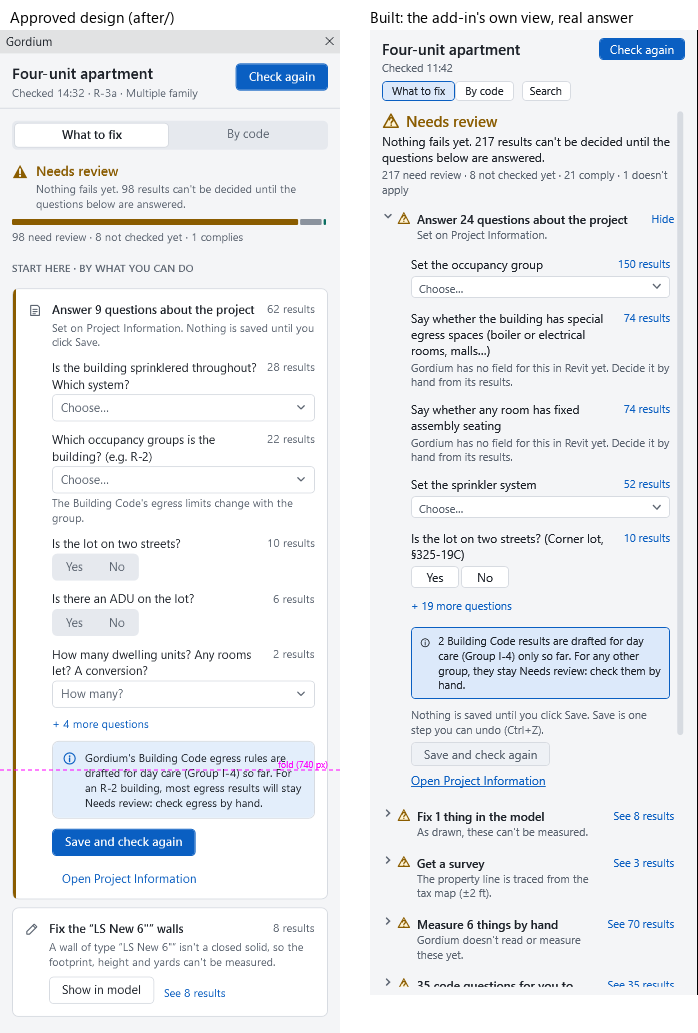
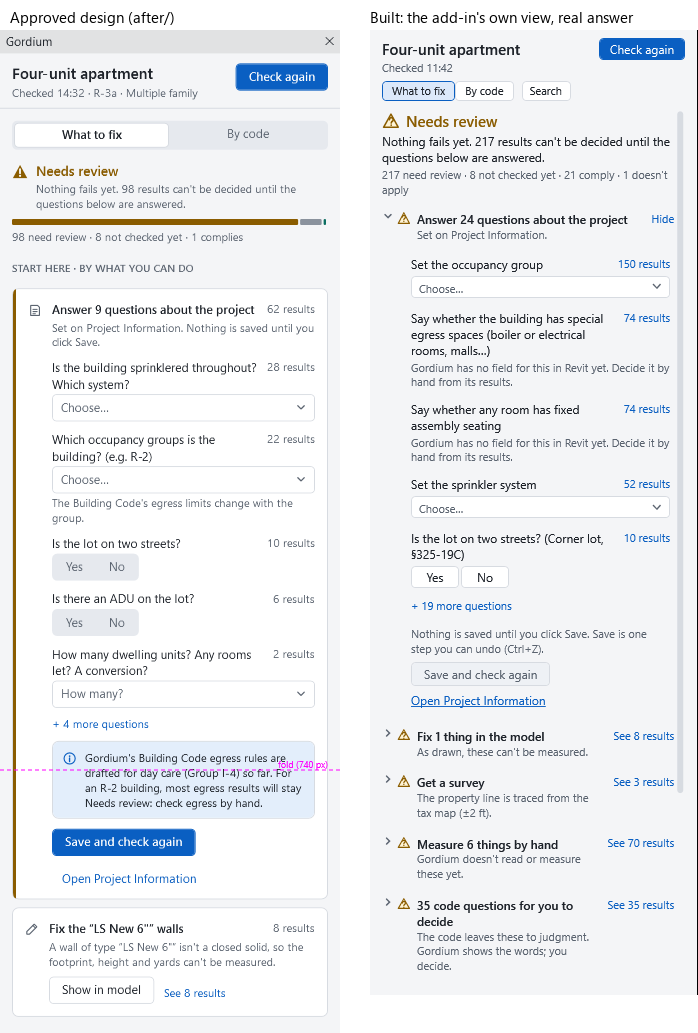
fix: short review after #181: the questions card's scope note counts only the card's own results (the apartment's two I-4-only results ask no question, so the card has none); the book in By code keeps its note

diff --git a/apps/revit_addin/tests/Gordium.Revit.Reading.Tests/DetailPageTests.cs b/apps/revit_addin/tests/Gordium.Revit.Reading.Tests/DetailPageTests.cs
@@ -223,7 +223,9 @@ public sealed class DetailPageTests
         Assert.Equal(answers.Cards.Count - ProjectQuestions.ShownAtFirst, more.Hidden);
         var foot = Assert.Single(first.OfType<AnswerFootEntry>());
         Assert.Equal(answers.Cards.Count, foot.Questions.Count);                // Save covers every question, shown or not
-        Assert.Equal(m.Views!.Scope, foot.Scope);
+        // the card's scope note counts only its own results (the apartment's two I-4-only rows ask no question)
+        var scopedInCard = answers.Rows.Count(r => m.Views!.Scoped.Contains(r.Id));
+        Assert.Equal(scopedInCard == 0 ? null : ResultViews.ScopeWords(scopedInCard), foot.Scope);
         Assert.Equal(answers.Cards.Count, Lay(open.Append(ResultViewList.MoreQuestionsKey)).OfType<QuestionEntry>().Count());
         // every result of the group, even behind "+ N more", is reached by the path to it
         foreach (var row in answers.Rows)
@@ -246,7 +248,7 @@ public sealed class DetailPageTests
         Assert.False(ResultViewList.Saves(question, "Enter"));
         Assert.Contains("Save and check again", ResultViewList.Spoken(foot), StringComparison.Ordinal);
         // review round 2: the foot says the scope note drawn in it, and promises no answer that isn't chosen
-        Assert.StartsWith(m.Views!.Scope!, ResultViewList.Spoken(foot), StringComparison.Ordinal);
+        Assert.StartsWith(string.Join(" ", new[] { foot.Scope, ResultViewList.FootWords }.OfType<string>()), ResultViewList.Spoken(foot), StringComparison.Ordinal);
         Assert.DoesNotContain("the answers chosen", ResultViewList.Spoken(foot), StringComparison.Ordinal);
         var view = File.ReadAllText(Path.Combine(Env.Repo, "apps", "revit_addin", "src", "Gordium.Revit.Addin", "ResultsView.cs"));
         // review round 2: an open dropdown's item keeps its keys (a ComboBoxItem is a ListBoxItem)

diff --git a/apps/revit_addin/tools/pane_renders/Program.cs b/apps/revit_addin/tools/pane_renders/Program.cs
@@ -145,7 +145,8 @@ internal static class Program
                         Check(combos >= 2 && yesNo >= 2, $"16 questions: asked in the card ({combos} dropdowns, {yesNo} Yes/No buttons)");
                         var save = FindAll<Button>(p.View).SingleOrDefault(b => b.IsVisible && b.Content as string == ProjectQuestions.SaveWords(0));
                         Check(save is { IsEnabled: false }, "16 questions: Save is off until an answer is chosen (nothing is written before)");
-                        Check(FindAll<Border>(p.View).Any(b => b.IsVisible && Equals(b.Tag, EntryView.ScopeTag)), "16 questions: the scope note is in the card");
+                        var cardScoped = answerGroup.Rows.Any(r => views.Scoped.Contains(r.Id));
+                        Check(FindAll<Border>(p.View).Any(b => b.IsVisible && Equals(b.Tag, EntryView.ScopeTag)) == cardScoped, $"16 questions: the scope note is in the card only when its own results say it ({cardScoped})");
                     });
                     var exits = rows.Groups.SelectMany(g => g.AllRows).First(r => r.Name.Contains("Two exits", StringComparison.Ordinal) && r.Name.Contains("APARTMENT SOUTH L1", StringComparison.Ordinal));
                     foreach (var why in new[] { false, true })

diff --git a/apps/revit_addin/src/Gordium.Revit.Reading/ResultViews.cs b/apps/revit_addin/src/Gordium.Revit.Reading/ResultViews.cs
@@ -87,6 +87,9 @@ public sealed record ResultViewsModel(string Summary, string Headline, IReadOnly
     /// sent, the code choice would otherwise be shown nowhere).</summary>
     public bool ShowsWhichCode => Code.Any(d => d.Note is not null);
 
+    /// <summary>The ids of the rows the scope note is said of (<see cref="ResultViews.DraftedForOneGroup"/>).</summary>
+    public IReadOnlySet<string> Scoped { get; init; } = new HashSet<string>(StringComparer.Ordinal);
+
     /// <summary>The scope note (change 24), said once where it matters (the questions card and the book in By code),
     /// or null when no row says its rules are drafted for one group only.</summary>
     public string? Scope { get; init; }
@@ -111,6 +114,7 @@ public static class ResultViews
                                     FixGroups(rows), CodeTree(result, rows, scoped.Select(r => r.Row).ToHashSet()))
         {
             Scope = scoped.Count == 0 ? null : ScopeWords(scoped.Count),
+            Scoped = scoped.Select(r => r.Row.Id).ToHashSet(StringComparer.Ordinal),
         };
     }
 

diff --git a/apps/revit_addin/src/Gordium.Revit.Reading/ResultViewList.cs b/apps/revit_addin/src/Gordium.Revit.Reading/ResultViewList.cs
@@ -130,7 +130,10 @@ public static class ResultViewList
                     }
                     if (questions.Count > ProjectQuestions.ShownAtFirst)
                         entries.Add(new MoreQuestionsEntry(MoreQuestionsKey, questions.Count - ProjectQuestions.ShownAtFirst, more));
-                    entries.Add(new AnswerFootEntry(g, questions, model.Scope));
+                    // the scope note, said of the questions' own results only (short review after #181: the rows it
+                    // counts can sit elsewhere, with no question of their own)
+                    var scopedHere = g.Rows.Count(r => model.Scoped.Contains(r.Id));
+                    entries.Add(new AnswerFootEntry(g, questions, scopedHere == 0 ? null : ResultViews.ScopeWords(scopedHere)));
                     continue;
                 }
                 foreach (var c in g.Cards)
